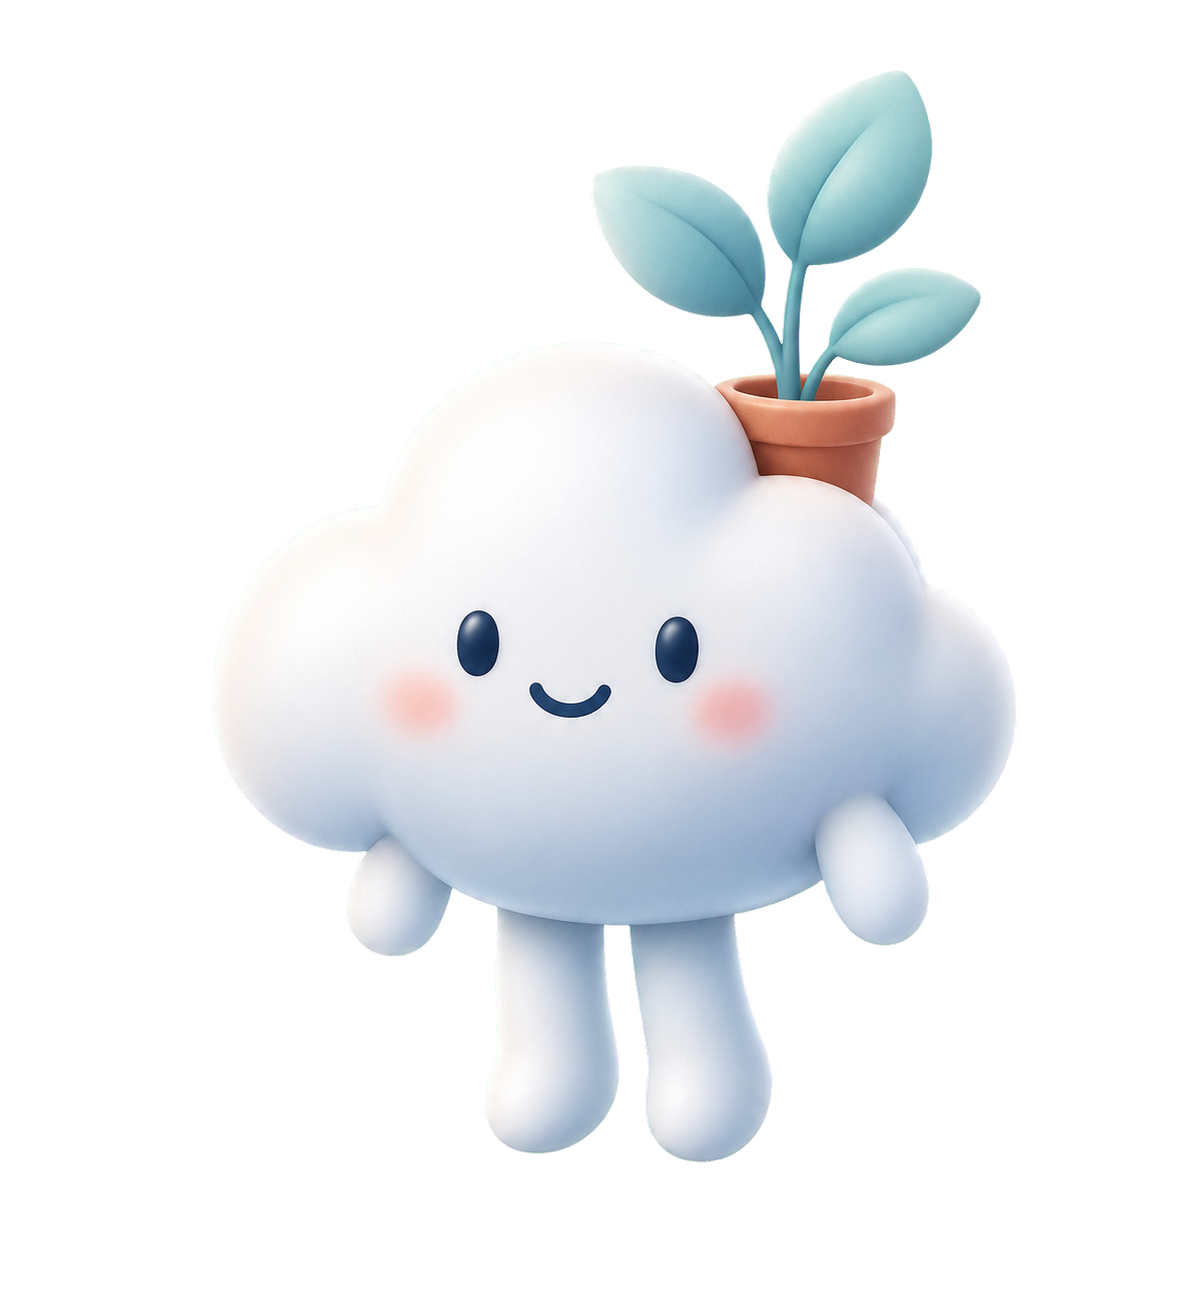
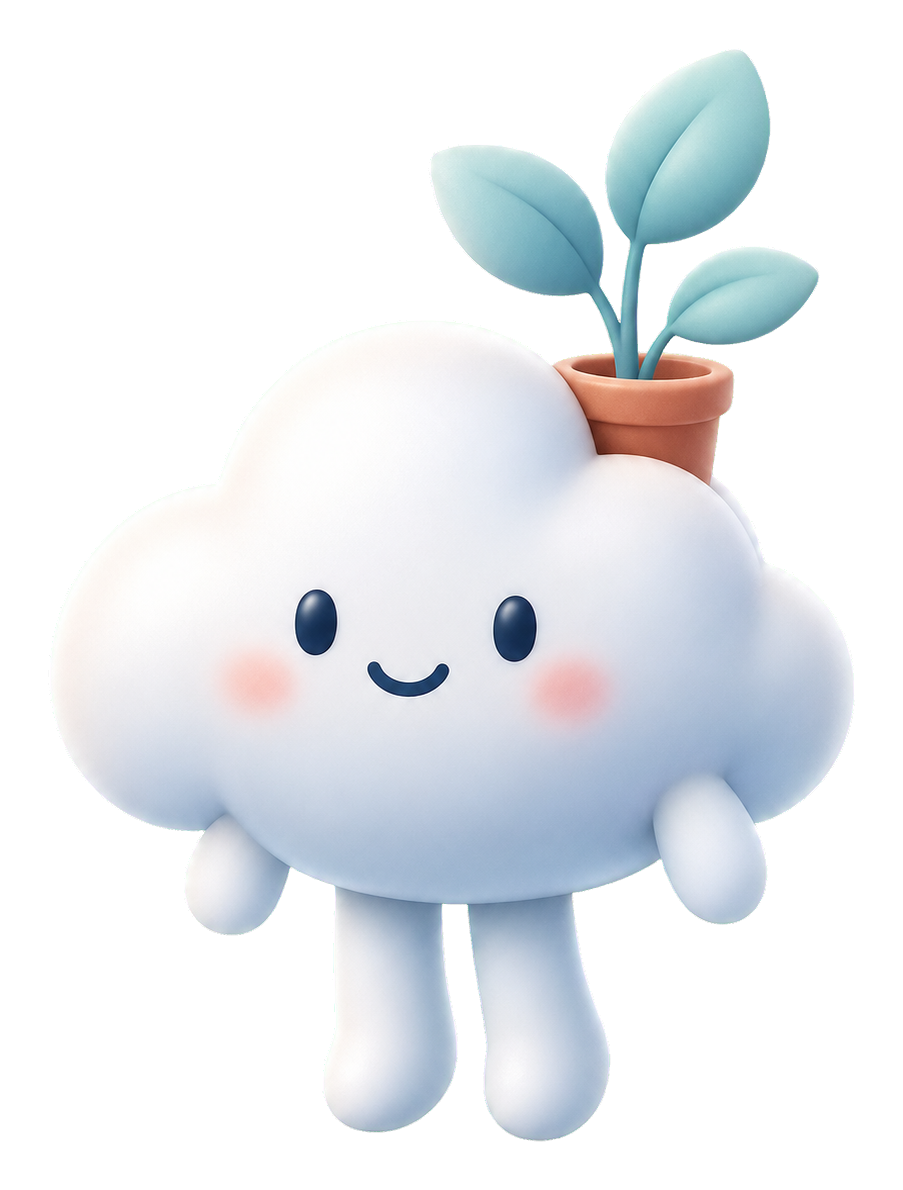
Integrate 3D Mori mascot across pages
Add mascot styling, adjust landing/app/script references, and swap in
the re-compressed mascot image.

Changed region(s): [[0.093, 0.0311, 0.9612, 0.9639]]

diff --git a/styles.css b/styles.css
@@ -5779,3 +5779,126 @@ body.sheet-open {
   outline: 2px solid var(--soft-primary);
   outline-offset: 2px;
 }
+
+/* 3D Mori mascot integration */
+.mascot-art,
+.final-cta-mascot,
+.floating-payment-cta img {
+  object-fit: contain;
+  user-select: none;
+  -webkit-user-drag: none;
+}
+
+.home-page .poster-companions {
+  right: clamp(2px, 2vw, 20px);
+  bottom: clamp(-26px, -2vw, -8px);
+}
+
+.home-page .poster-companions img.mascot-hero {
+  width: clamp(210px, 34vw, 300px);
+  height: clamp(285px, 46vw, 400px);
+  filter: drop-shadow(0 24px 30px rgba(91, 106, 151, 0.25));
+  animation: mascot-float 4.8s ease-in-out infinite;
+}
+
+.home-page .problem-core img.mascot-card {
+  width: 82px;
+  height: 108px;
+  margin-block: -14px;
+  object-fit: contain;
+  filter: drop-shadow(0 12px 16px rgba(20, 28, 52, 0.3));
+}
+
+.home-page .problem-core {
+  grid-template-columns: 92px minmax(0, 1fr);
+}
+
+.home-page .story-flow .mori-message img.mascot-avatar,
+.home-page .execution-preview-shell .dashboard-top img.mascot-avatar {
+  padding: 0;
+  background: transparent;
+  border: 0;
+  filter: drop-shadow(0 10px 14px rgba(91, 106, 151, 0.2));
+}
+
+.companion-world img.mascot-art,
+.companion-run-body img.mascot-art,
+.focus-mode img.mascot-art {
+  filter: drop-shadow(0 18px 22px rgba(91, 106, 151, 0.22));
+}
+
+.final-cta-mascot {
+  flex: 0 0 auto;
+  width: clamp(92px, 11vw, 140px);
+  height: clamp(124px, 15vw, 184px);
+  margin-block: -32px;
+  filter: drop-shadow(0 18px 24px rgba(91, 106, 151, 0.22));
+  animation: mascot-float 5.2s ease-in-out infinite reverse;
+}
+
+.floating-payment-cta {
+  grid-template-columns: 42px minmax(0, 1fr) auto;
+  padding-left: 10px;
+}
+
+.floating-payment-cta img {
+  width: 42px;
+  height: 52px;
+  margin-block: -8px;
+  filter: drop-shadow(0 8px 10px rgba(35, 44, 76, 0.25));
+}
+
+@keyframes mascot-float {
+  0%,
+  100% {
+    transform: translateY(0) rotate(-0.8deg);
+  }
+  50% {
+    transform: translateY(-8px) rotate(0.8deg);
+  }
+}
+
+@media (max-width: 759px) {
+  .home-page .hero-poster {
+    padding-bottom: 190px;
+  }
+
+  .home-page .poster-companions img.mascot-hero {
+    width: 188px;
+    height: 254px;
+  }
+
+  .home-page .final-cta {
+    position: relative;
+    padding-top: 118px;
+  }
+
+  .final-cta-mascot {
+    position: absolute;
+    top: -18px;
+    left: 50%;
+    width: 88px;
+    height: 116px;
+    margin: 0;
+    transform: translateX(-50%);
+    animation: none;
+  }
+
+  .floating-payment-cta {
+    grid-template-columns: 36px minmax(0, 1fr) auto;
+    gap: 7px;
+    padding-right: 14px;
+  }
+
+  .floating-payment-cta img {
+    width: 36px;
+    height: 46px;
+  }
+}
+
+@media (prefers-reduced-motion: reduce) {
+  .home-page .poster-companions img.mascot-hero,
+  .final-cta-mascot {
+    animation: none;
+  }
+}

diff --git a/index.html b/index.html
@@ -51,7 +51,7 @@
               <p>혼자서는 미루던 목표도<br />오늘은 시작할 수 있어요.</p>
             </div>
             <div class="poster-companions" aria-hidden="true">
-              <img src="assets/buddy.svg" alt="" />
+              <img class="mascot-art mascot-hero" src="assets/on-my-way-mascot.png" alt="" />
             </div>
           </article>
 
@@ -93,7 +93,7 @@
             <h3>하루 놓치면 그대로 포기하게 됩니다.</h3>
           </article>
           <article class="problem-core">
-            <img src="assets/buddy.svg" alt="" />
+            <img class="mascot-art mascot-card" src="assets/on-my-way-mascot.png" alt="" />
             <p>“그래서 많이 포기했구나. 이번엔 아주 작게 시작해보자.”</p>
           </article>
         </div>
@@ -144,7 +144,7 @@
         <div class="design-panel first-meeting-panel">
           <form class="personality-form mori-goal-card" id="personalityForm">
             <div class="mori-message">
-              <img src="assets/buddy.svg" alt="" />
+              <img class="mascot-art mascot-avatar" src="assets/on-my-way-mascot.png" alt="" />
               <div>
                 <span>모리</span>
                 <p>“이렇게 해보면 어때?”</p>
@@ -271,7 +271,7 @@
               <span>오늘의 한 걸음</span>
               <strong id="dashboardGoalPreview">영어 인터뷰 15분</strong>
             </div>
-            <img src="assets/buddy.svg" alt="" />
+            <img class="mascot-art mascot-avatar" src="assets/on-my-way-mascot.png" alt="" />
           </div>
           <article class="focus-preview-card">
             <span>모리</span>
@@ -333,6 +333,7 @@
       </section>
 
       <section class="final-cta section-band">
+        <img class="final-cta-mascot" src="assets/on-my-way-mascot.png" alt="" aria-hidden="true" />
         <div>
           <p class="eyebrow">Start</p>
           <h2>지금 목표 하나를 적어보세요</h2>
@@ -348,6 +349,7 @@
     </footer>
 
     <a class="floating-payment-cta" href="#designFlow" aria-label="내 목표 플랜 만들기">
+      <img src="assets/on-my-way-mascot.png" alt="" aria-hidden="true" />
       <span>내 목표 플랜 만들기</span>
       <strong>무료 미리보기</strong>
     </a>

diff --git a/app.html b/app.html
@@ -221,7 +221,7 @@
               <span></span>
               <span></span>
             </div>
-            <img id="companionHomeImage" src="assets/buddy.svg" alt="목표 메이트 모리" />
+            <img class="mascot-art" id="companionHomeImage" src="assets/on-my-way-mascot.png" alt="목표 메이트 모리" />
             <div class="companion-speech">
               <strong id="companionMoodLine">오늘 첫 걸음을 기다리고 있어요.</strong>
               <p id="companionMessage">5분만 시작해도 우리 여정은 계속돼요.</p>
@@ -254,7 +254,7 @@
             <span class="soft-badge">함께 가는 중</span>
           </div>
           <div class="companion-run-body">
-            <img id="executionCompanion" src="assets/buddy.svg" alt="목표 메이트 모리" />
+            <img class="mascot-art" id="executionCompanion" src="assets/on-my-way-mascot.png" alt="목표 메이트 모리" />
             <div>
               <strong id="executionCompanionTitle">회복 설계자</strong>
               <p id="executionCompanionText">
@@ -346,7 +346,7 @@
     <div class="sheet-overlay" id="focusModeOverlay" hidden></div>
     <section class="focus-mode" id="focusMode" role="dialog" aria-modal="true" aria-labelledby="focusModeTitle" tabindex="-1" hidden>
       <button id="closeFocusMode" type="button" aria-label="집중 모드 닫기">×</button>
-      <img src="assets/buddy.svg" alt="집중을 응원하는 모리" />
+      <img class="mascot-art" src="assets/on-my-way-mascot.png" alt="집중을 응원하는 모리" />
       <span id="focusTimer">15:00</span>
       <h2 id="focusModeTitle">지금 할 한 가지</h2>
       <p id="focusCriteria">완료 기준: 5분만 해도 성공</p>

diff --git a/script.js b/script.js
@@ -1437,7 +1437,7 @@ function renderCompanionExperience({ plan, selectedCompletion, remainingTasks, c
   const nextMilestone = [25, 50, 75, 100].find((value) => overallProgress < value) || 100;
 
   if (companionName) companionName.textContent = companionState.name || "모리";
-  if (companionHomeImage) companionHomeImage.src = "assets/buddy.svg";
+  if (companionHomeImage) companionHomeImage.src = "assets/on-my-way-mascot.png";
   if (companionMoodLine) {
     companionMoodLine.textContent =
       companionState.energy === "tired" ? "오늘은 작게 줄이는 것도 실행이에요." : copy.line;